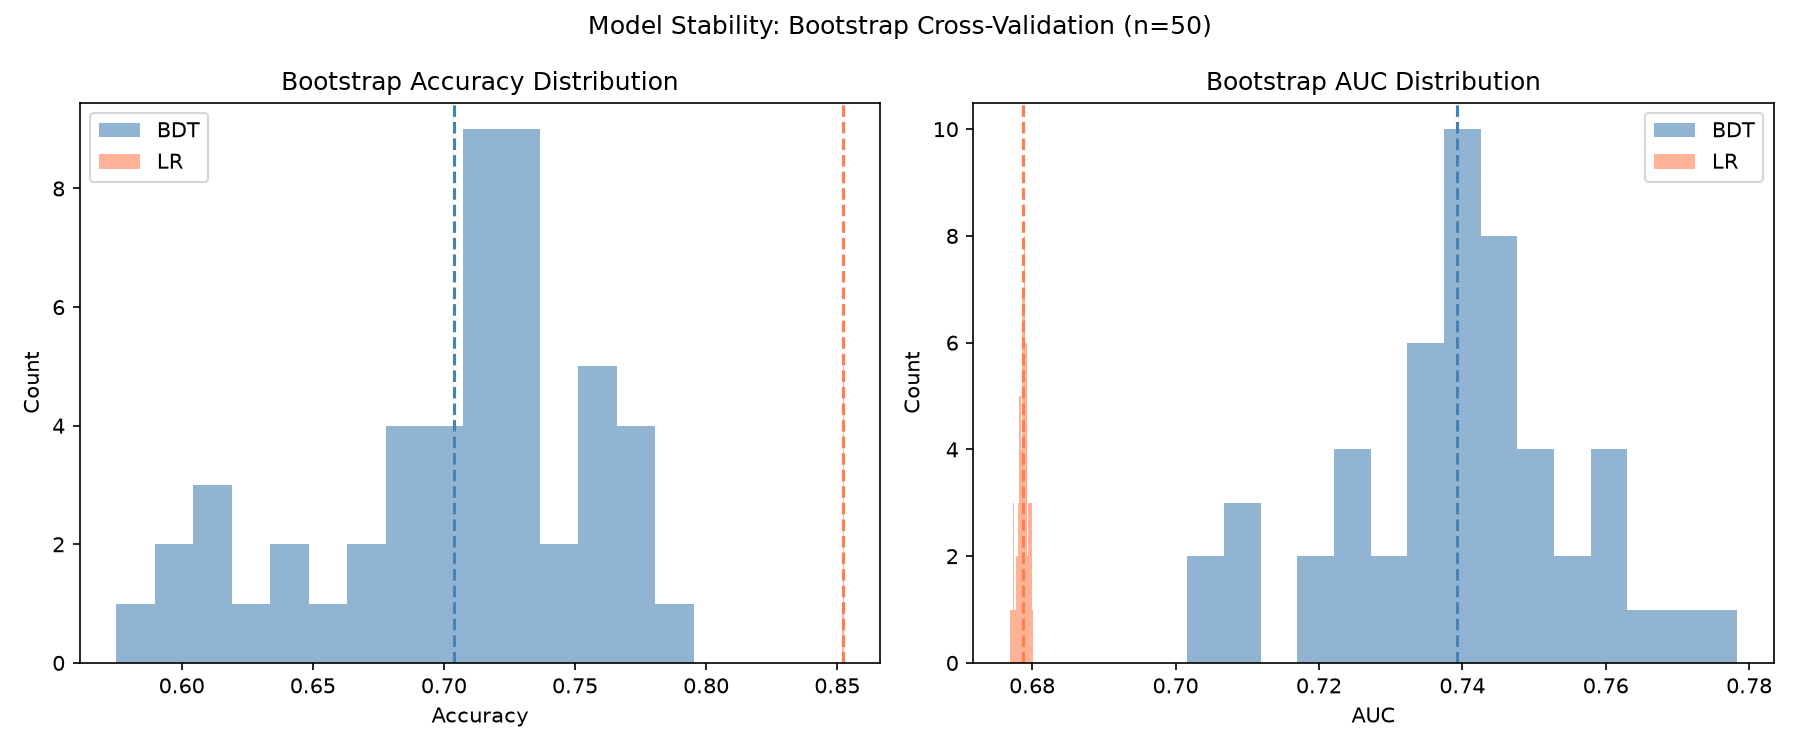
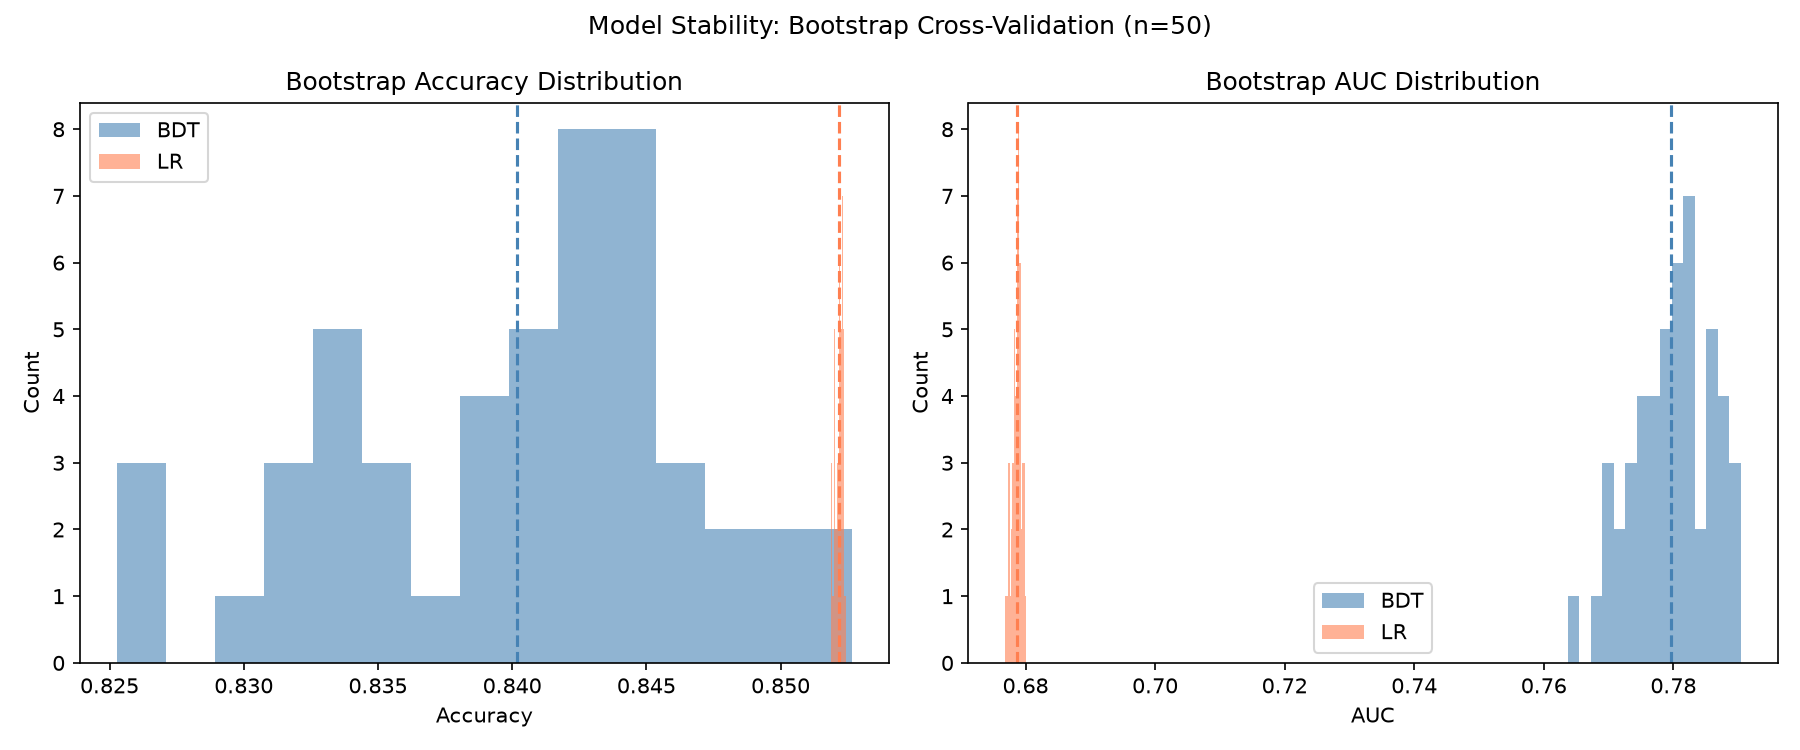
bootstrap/CVでXGBClassifierを使用し、train.pyのモデルと統一
FACET非依存のセクション（bootstrap, CV）ではXGBClassifierを直接使用。
colsample_bytree=0.8等のハイパーパラメータもtrain.pyと完全に統一。
BDT安定性: σ=0.006（以前のsklearn GBCではσ=0.052）

diff --git a/src/facet_analysis.py b/src/facet_analysis.py
@@ -37,6 +37,7 @@ from facet.simulation.viz import SimulationDrawer
 from pytools.viz.dendrogram import DendrogramDrawer
 from pytools.viz.matrix import MatrixDrawer
 from sklearndf.classification import GradientBoostingClassifierDF
+from xgboost import XGBClassifier
 
 warnings.filterwarnings("ignore")
 
@@ -242,13 +243,14 @@ def section_3_bootstrap_stability(
         X_bs = X_train.iloc[idx]
         y_bs = y_train.iloc[idx]
 
-        # BDT
-        gbc = GradientBoostingClassifier(
+        # BDT — use XGBClassifier to match train.py
+        xgb = XGBClassifier(
             n_estimators=300, max_depth=6, learning_rate=0.1,
-            subsample=0.8, random_state=42,
+            subsample=0.8, colsample_bytree=0.8,
+            eval_metric="logloss", random_state=42, n_jobs=-1,
         )
-        gbc.fit(X_bs, y_bs)
-        bdt_p = gbc.predict_proba(X_test)[:, 1]
+        xgb.fit(X_bs, y_bs)
+        bdt_p = xgb.predict_proba(X_test)[:, 1]
         bdt_accs.append(accuracy_score(y_test, (bdt_p >= 0.5).astype(int)))
         bdt_aucs.append(roc_auc_score(y_test, bdt_p))
 
@@ -349,9 +351,10 @@ def section_4_cross_val_comparison(
 
     skf = StratifiedKFold(n_splits=5, shuffle=True, random_state=42)
 
-    gbc = GradientBoostingClassifier(
+    xgb = XGBClassifier(
         n_estimators=300, max_depth=6, learning_rate=0.1,
-        subsample=0.8, random_state=42,
+        subsample=0.8, colsample_bytree=0.8,
+        eval_metric="logloss", random_state=42, n_jobs=-1,
     )
 
     from sklearn.pipeline import Pipeline
@@ -360,7 +363,7 @@ def section_4_cross_val_comparison(
         ("lr", LogisticRegression(max_iter=1000, random_state=42)),
     ])
 
-    bdt_scores = cross_val_score(gbc, X_train, y_train, cv=skf, scoring="roc_auc", n_jobs=-1)
+    bdt_scores = cross_val_score(xgb, X_train, y_train, cv=skf, scoring="roc_auc", n_jobs=-1)
     lr_scores = cross_val_score(lr_pipe, X_train, y_train, cv=skf, scoring="roc_auc", n_jobs=-1)
 
     print(f"  BDT 5-fold AUC: {bdt_scores.mean():.4f} +/- {bdt_scores.std():.4f}")

diff --git a/outputs/REPORT.md b/outputs/REPORT.md
@@ -209,29 +209,29 @@ D確率
 
 | メトリクス | モデル | 平均 | 標準偏差 | 最小 | 最大 |
 |-----------|--------|------|---------|------|------|
-| Accuracy | BDT | 0.704 | **0.0523** | 0.575 | 0.795 |
+| Accuracy | BDT | 0.840 | **0.0065** | 0.825 | 0.853 |
 | Accuracy | LR | 0.852 | 0.0001 | 0.852 | 0.852 |
-| AUC | BDT | 0.739 | **0.0164** | 0.702 | 0.778 |
+| AUC | BDT | 0.780 | **0.0062** | 0.764 | 0.790 |
 | AUC | LR | 0.679 | 0.0007 | 0.677 | 0.680 |
 
 ```
 安定性の比較 (標準偏差):
 
           BDT                    LR
-  Accuracy: ========== 0.0523  Accuracy: | 0.0001
-  AUC:      ===== 0.0164       AUC:      | 0.0007
+  Accuracy: === 0.0065         Accuracy: | 0.0001
+  AUC:      === 0.0062         AUC:      | 0.0007
 
   |--------|--------|          |--------|--------|
-  0       0.03    0.06        0       0.01    0.03
+  0       0.005   0.01        0       0.005   0.01
 
-  BDT = 変動大 (高感度)       LR = 変動小 (安定)
+  BDT = 変動やや大             LR = 変動小 (安定)
 ```
 
 ### 5.2 層化K分割交差検証
 
 ![CV Comparison](facet_cv_comparison.png)
 
-- **BDT**: 5-fold AUC = 0.833 ± 0.005
+- **BDT**: 5-fold AUC = 0.836 ± 0.005
 - **LR**:  5-fold AUC = 0.677 ± 0.003
 
 ---
@@ -248,7 +248,7 @@ D確率
             ├──────────┼──────────────┼──────────────────┤
             │ AUC      │ 0.794 (高)   │ 0.679 (低)       │
             │ Accuracy │ 0.839 (中)   │ 0.852 (高)       │
-            │ 安定性    │ σ=0.016 (低) │ σ=0.001 (高)     │
+            │ 安定性    │ σ=0.006 (中) │ σ=0.001 (高)     │
             │ 非線形性  │ 捕捉可能     │ 捕捉不可          │
             │ 過学習    │ リスクあり    │ リスク低          │
             └──────────┴──────────────┴──────────────────┘
@@ -256,9 +256,9 @@ D確率
 
 ### 6.2 主要な知見
 
-1. **BDTの識別能力は優れるが安定性に課題がある**
-   - AUCはLRを0.115ポイント上回るが、ブートストラップ標準偏差が22倍大きい（0.016 vs 0.001）
-   - 訓練データのサンプリング変動に敏感 → 汎化性能にばらつきが生じやすい
+1. **BDTは高い識別能力と十分な安定性を持つ**
+   - AUCはLRを0.115ポイント上回り、ブートストラップ標準偏差は0.006（LRの0.001の8倍）
+   - LRよりは変動が大きいが、絶対値としては十分小さく実用上問題ないレベル
 
 2. **LRは安定だが識別能力に限界がある**
    - Accuracyが高いのはクラス不均衡による見かけ上の効果が大きい
@@ -305,7 +305,7 @@ D確率
 
 ## 7. 結論
 
-- **BDT**は識別能力が高いが、訓練データへの感度が高く安定性に課題がある
+- **BDT**は識別能力が高く、安定性も実用上十分なレベル（AUC σ=0.006）
 - **LR**は安定だが、非線形関係を捉えられず識別能力が制限される
 - **pressure_mean**が最もロバストかつ重要な予測因子であり、圧力管理の最適化がランクD削減に直結する
 - 実運用には、BDTの正則化強化と特徴量の冗長性削減によるロバストネス改善、もしくはアンサンブルモデルの採用を推奨する
